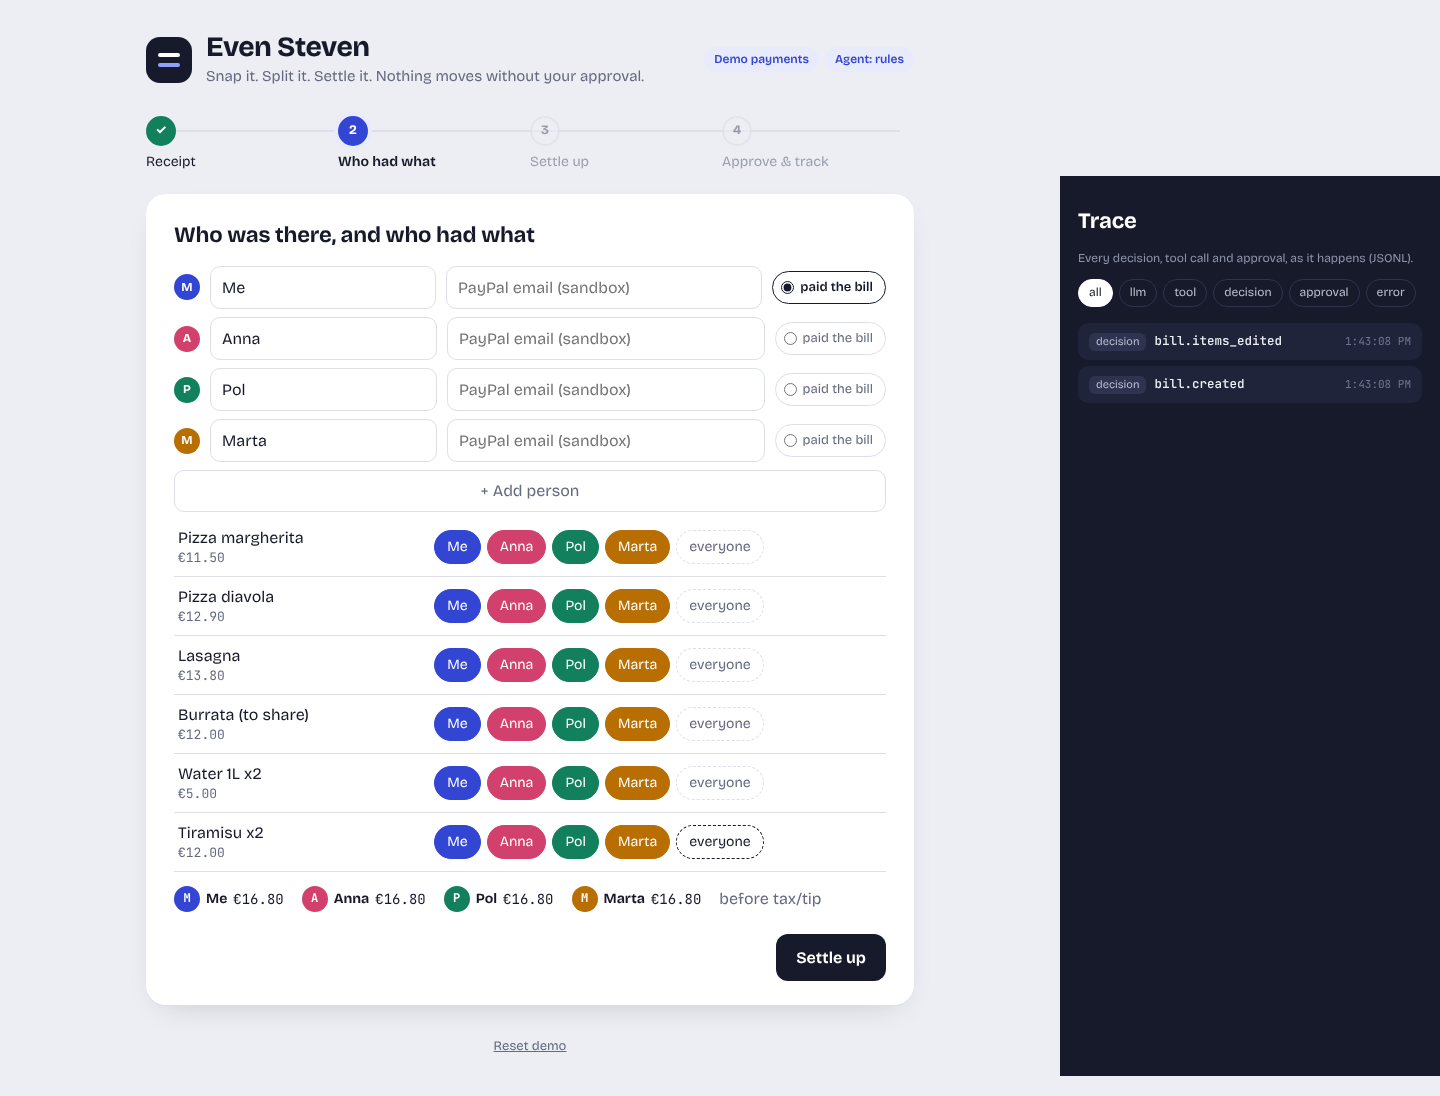
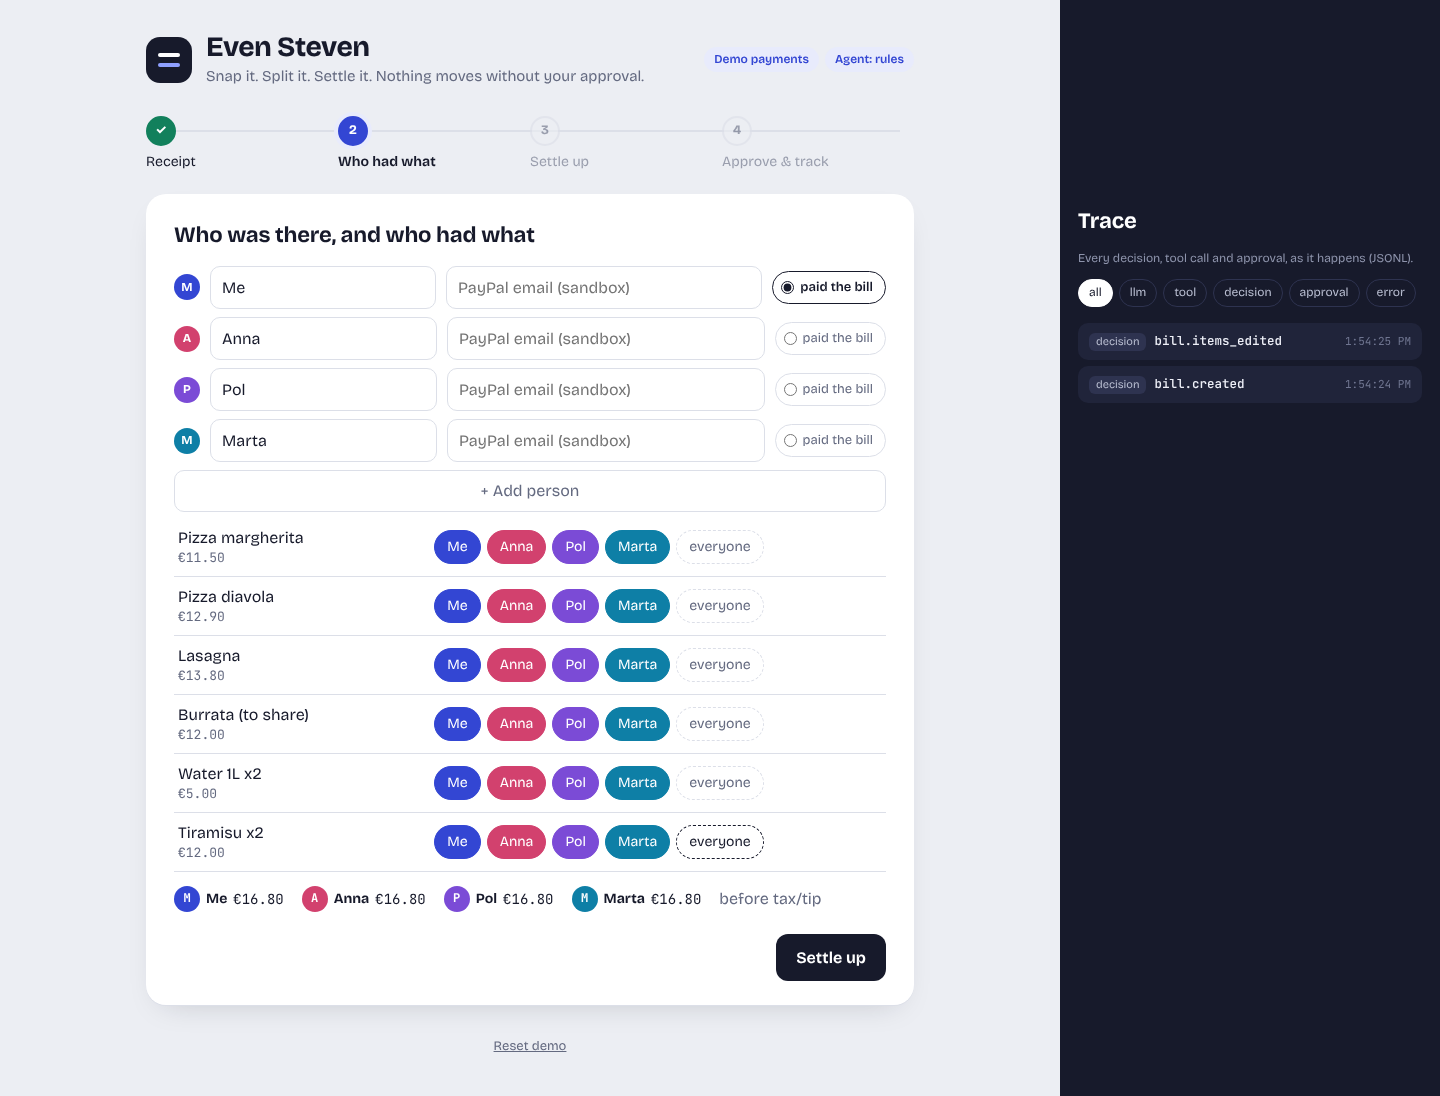
UI: person colours no longer reuse the paid-green or pending-amber status colours
Claude-Session: https://claude.ai/code/session_018jb2RCdFt1B7iu7T6nuNs3

diff --git a/web/src/App.tsx b/web/src/App.tsx
@@ -73,7 +73,7 @@ export default function App() {
   );
 }
 
-const TONES = ["#3346d3", "#d2416e", "#12805c", "#b86e00", "#7b4bd6", "#0e7fa6"];
+const TONES = ["#3346d3", "#d2416e", "#7b4bd6", "#0e7fa6", "#8b5a3c", "#4a5578"];
 const toneOf = new Map<string, string>();
 /** One colour per person, handed out in order of first appearance so nobody shares a colour. */
 export function tone(name: string): string {
